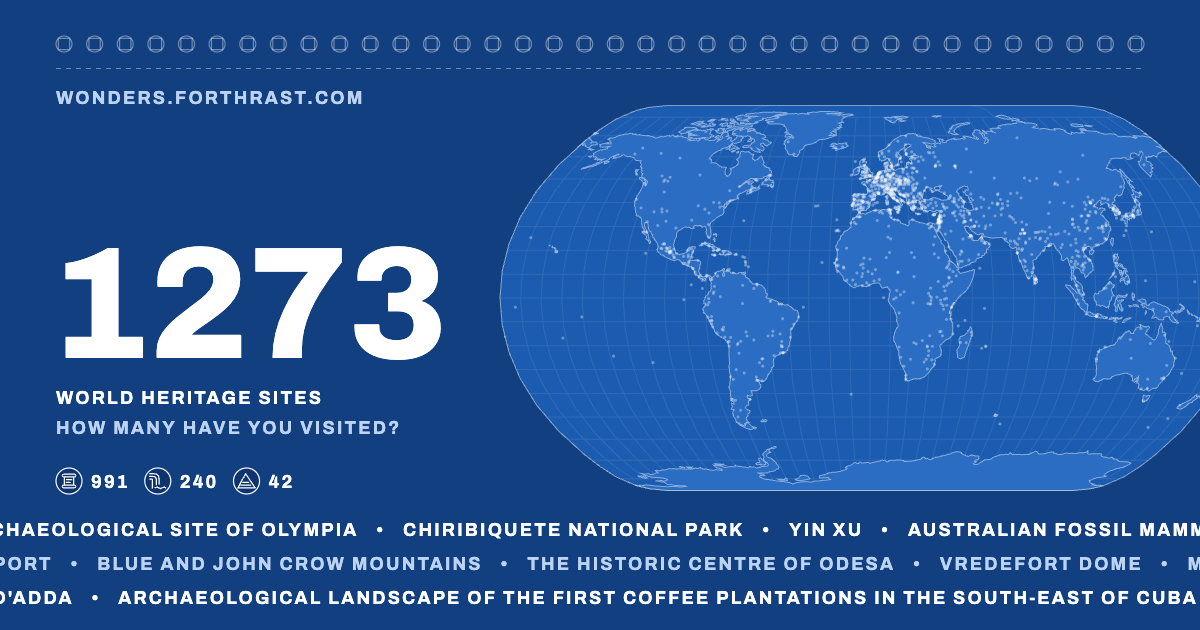
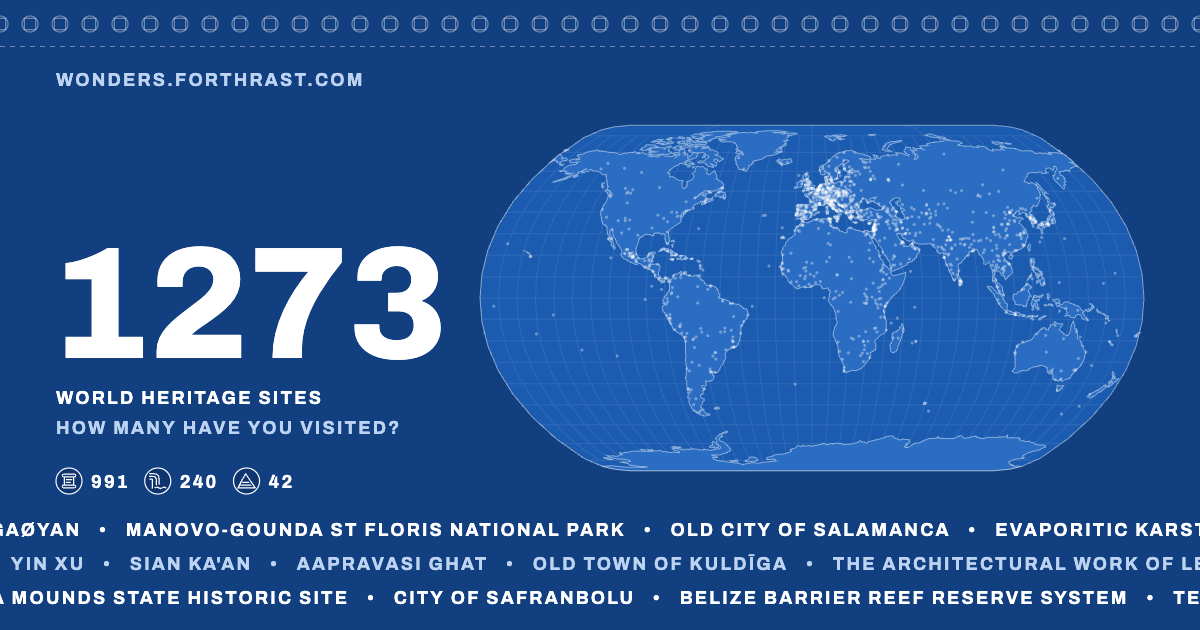
Card frieze full bleed; map on the margin; ledger actions row
- Frieze and dashed rule run edge to edge at the top again; the spacing
  divides the card exactly so the end seals crop at their halfway line
- Map aligned to the right margin instead of bleeding off
- Ledger: Share / Save card / Copy list on their own row (full width,
  equal buttons on phones)
- Link-preview image regenerated and re-versioned

diff --git a/app.js b/app.js
@@ -197,28 +197,33 @@ async function render_card({ sites, visits, land, summary, generic = false }) {
   // head: a frieze of the register's seal (a circle round a square), like a
   // stamp's perforated edge, over a dashed rule
   const right = CARD_W - left;
+  // edge to edge, like a sheet of stamps: the spacing divides the card
+  // exactly, so the end seals sit on the edges and crop at their halfway line
   const seal_r = 8;
-  const seals = 36;
-  const step = (right - left - 2 * seal_r) / (seals - 1);
+  const gaps = Math.round(CARD_W / 30);
+  const step = CARD_W / gaps;
+  const seals = gaps + 1;
+  const first = 0;
+  const frieze_y = 24;
   g.strokeStyle = "rgba(255,255,255,0.4)";
   g.lineWidth = 1.2;
   for (let i = 0; i < seals; i++) {
-    const x = left + seal_r + i * step;
+    const x = first + i * step;
     g.beginPath();
-    g.arc(x, 44, seal_r, 0, Math.PI * 2);
+    g.arc(x, frieze_y, seal_r, 0, Math.PI * 2);
     g.stroke();
-    g.strokeRect(x - 5.66, 44 - 5.66, 11.32, 11.32);
+    g.strokeRect(x - 5.66, frieze_y - 5.66, 11.32, 11.32);
   }
   g.setLineDash([5, 5]);
   g.beginPath();
-  g.moveTo(left, 68.5);
-  g.lineTo(right, 68.5);
+  g.moveTo(0, frieze_y + 22.5);
+  g.lineTo(CARD_W, frieze_y + 22.5);
   g.stroke();
   g.setLineDash([]);
-  label(SITE_URL.replace("https://", ""), left, 104, P.pale);
+  label(SITE_URL.replace("https://", ""), left, 86, P.pale);
 
-  // the world, pushed right so it bleeds a little off the card's edge
-  const map_box = [[500, 96], [CARD_W + 40, 500]];
+  // the world, pushed right to the margin the frieze ends on
+  const map_box = [[480, 96], [right, 500]];
   const proj = d3.geoNaturalEarth1().fitExtent(map_box, { type: "Sphere" });
   const path = d3.geoPath(proj, g);
   g.lineWidth = 1;

diff --git a/index.html b/index.html
@@ -11,7 +11,7 @@
   <meta property="og:url" content="https://wonders.forthrast.com/">
   <meta property="og:title" content="World Heritage Register: how many of the 1,273 have you visited?">
   <meta property="og:description" content="Tap the UNESCO World Heritage sites you've been to, then share your card. Unofficial; made with AI.">
-  <meta property="og:image" content="https://wonders.forthrast.com/og-card.png?v=4">
+  <meta property="og:image" content="https://wonders.forthrast.com/og-card.png?v=5">
   <meta property="og:image:width" content="1200">
   <meta property="og:image:height" content="630">
   <meta property="og:image:alt" content="A blue poster-style world map of UNESCO World Heritage sites with the count 1273">
@@ -139,9 +139,11 @@
         <option value="country">Country</option>
         <option value="inscribed">Year inscribed</option>
       </select>
-      <button type="button" id="ledger_share" class="tool tool-primary label">Share</button>
-      <button type="button" id="ledger_card" class="tool label">Save card</button>
-      <button type="button" id="ledger_copy" class="tool label">Copy list</button>
+      <div class="ledger-actions">
+        <button type="button" id="ledger_share" class="tool tool-primary label">Share</button>
+        <button type="button" id="ledger_card" class="tool label">Save card</button>
+        <button type="button" id="ledger_copy" class="tool label">Copy list</button>
+      </div>
     </div>
     <ol id="ledger_rows" class="ledger-rows"></ol>
     <p class="ledger-foot label">No future without the past</p>

diff --git a/style.css b/style.css
@@ -516,6 +516,7 @@ b { font-weight: 700; }
   color: var(--ink);
   font: 400 var(--t-body) var(--face);
 }
+.ledger-actions { display: flex; gap: var(--u); }
 .tool {
   padding: var(--u) calc(2 * var(--u));
   border: 1px solid var(--ink);
@@ -553,6 +554,9 @@ b { font-weight: 700; }
 
 @media (max-width: 640px) {
   .ledger { width: 100vw; max-width: 100vw; height: 100%; max-height: 100%; margin: 0; border: 0; }
+  .ledger-tools select { flex: 1; margin-right: 0; }
+  .ledger-actions { flex: 1 0 100%; }
+  .ledger-actions .tool { flex: 1; padding-inline: var(--u); }
 }
 
 @media (prefers-reduced-motion: reduce) {
